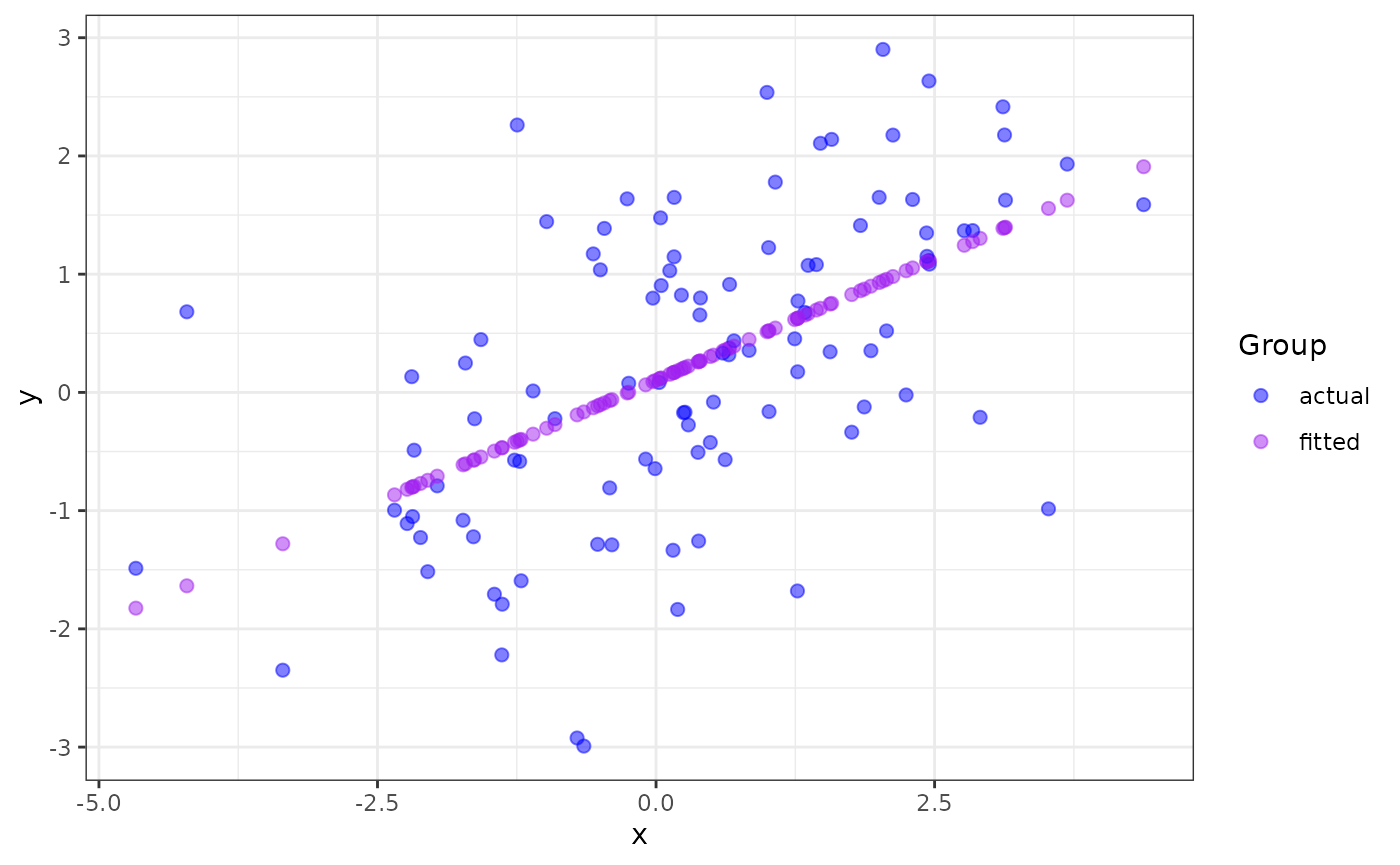
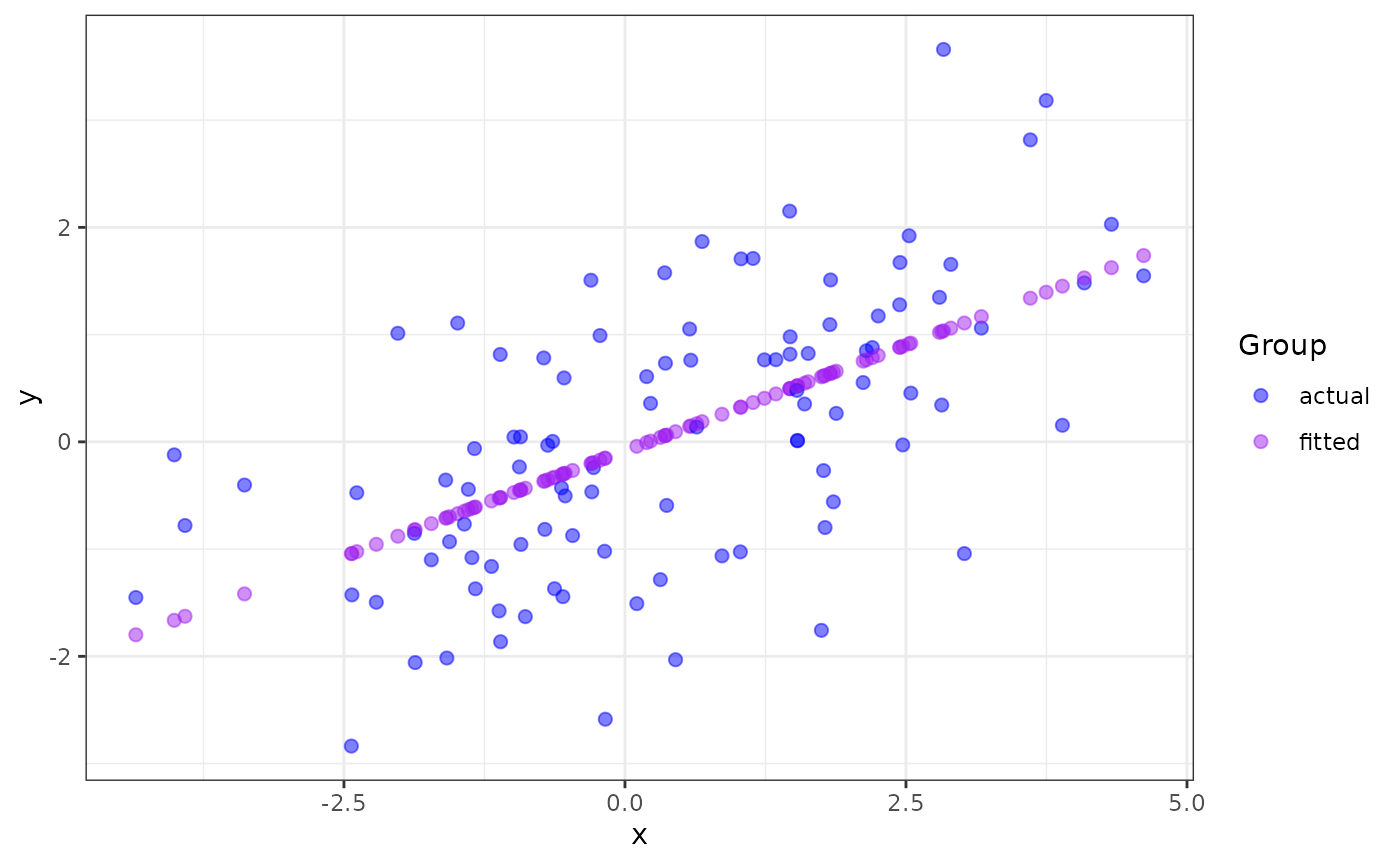
Built site for ggmatplot: 0.1.2@ef95fd4

diff --git a/reference/ggmatplot.html b/reference/ggmatplot.html
@@ -103,10 +103,14 @@ and <code>y</code> are the same.</p></li>
 <li><p>If either <code>x</code> or <code>y</code> is missing, the other is used as <code>y</code> and a vector of
 <code>1:n</code> is used as <code>x</code>.</p></li>
 </ul></dd>
+
+
 <dt>plot_type</dt>
 <dd><p>A string specifying the type of plot. Possible plot types
 are <code>point</code>, <code>line</code>, <code>both</code>(point + line), <code>density</code>, <code>histogram</code>, <code>boxplot</code>,
 <code>dotplot</code>, <code>errorplot</code>, <code>violin</code>, and <code>ecdf</code>. Default plot_type is <code>point</code>.</p></dd>
+
+
 <dt>color, fill</dt>
 <dd><p>Vectors of colors. Defining only one of them will update
 both <code>color</code> and <code>fill</code> aesthetics of the plot by default, unless they are
@@ -115,12 +119,16 @@ matrices <code>x</code> or <code>y</code>, and will correspond to each of those 
 <li><p>If only a single color is given, the same color will be used for all
 columns.</p></li>
 </ul></dd>
+
+
 <dt>shape, linetype</dt>
 <dd><p>A vector of shapes or line types respectively.</p><ul><li><p>The number of shapes/line types should match the higher number of columns
 of matrices <code>x</code> or <code>y</code>, and will correspond to each of those columns.</p></li>
 <li><p>If only a single shape/line type is given, the same shape/line type will
 be used for all columns.</p></li>
 </ul></dd>
+
+
 <dt>xlim, ylim</dt>
 <dd><p>Ranges of x and y axes.</p><ul><li><p>Each of them should be a two element vector specifying the lower and upper
 limits of the scale.</p></li>
@@ -128,27 +136,42 @@ limits of the scale.</p></li>
 the limits is given as <code>NA</code>, the corresponding limit from the range of data
 will be used.</p></li>
 </ul></dd>
+
+
 <dt>log</dt>
 <dd><p>A string defining which axes to transform into a log scale.
 (<code>x</code>, <code>y</code> or <code>xy</code>)</p></dd>
+
+
 <dt>main, xlab, ylab, legend_title</dt>
 <dd><p>Strings to update plot title, x axis
 label, y axis label and legend title respectively.</p></dd>
+
+
 <dt>legend_label</dt>
 <dd><p>A vector of strings, to rename the legend labels.</p></dd>
+
+
 <dt>desc_stat</dt>
 <dd><p>Descriptive statistics to be used for visualizing errors,
 in <code>errorplot</code>. Possible values are <code>mean_se</code>, <code>mean_sd</code>, <code>mean_range</code>,
 <code>median_iqr</code> and <code>median_range</code>. Default desc_stat is <code>mean_se</code>.</p></dd>
+
+
 <dt>asp</dt>
 <dd><p>The y/x aspect ratio.</p></dd>
+
+
 <dt>...</dt>
 <dd><p>Other arguments passed on to the plot. Possible arguments are
 those that can be passed on to the <a href="#plot-types">underlying ggplot layers</a>.</p></dd>
+
 </dl></div>
     <div id="value">
     <h2>Value</h2>
-    <p>A ggplot object. The columns of the input matrices will be plotted
+    
+
+<p>A ggplot object. The columns of the input matrices will be plotted
 against each other using the defined plot type.</p>
     </div>
     <div id="plot-types">
@@ -200,7 +223,7 @@ or <a href="https://ggplot2.tidyverse.org/reference/index.html#section-stats" cl
 </div>
 
 <div class="pkgdown">
-  <p></p><p>Site built with <a href="https://pkgdown.r-lib.org/" class="external-link">pkgdown</a> 2.0.3.</p>
+  <p></p><p>Site built with <a href="https://pkgdown.r-lib.org/" class="external-link">pkgdown</a> 2.0.4.</p>
 </div>
 
       </footer></div>

diff --git a/articles/ggmatplot.html b/articles/ggmatplot.html
@@ -103,7 +103,7 @@
 <span class="va">x</span> <span class="op">&lt;-</span> <span class="fu"><a href="https://rdrr.io/r/base/c.html" class="external-link">c</a></span><span class="op">(</span><span class="fu"><a href="https://rdrr.io/r/stats/Normal.html" class="external-link">rnorm</a></span><span class="op">(</span><span class="fl">100</span>, sd <span class="op">=</span> <span class="fl">2</span><span class="op">)</span><span class="op">)</span>
 
 <span class="fu"><a href="https://rdrr.io/r/utils/head.html" class="external-link">head</a></span><span class="op">(</span><span class="va">x</span><span class="op">)</span>
-<span class="co">#&gt; [1]  0.04623868  2.76618692  2.44945253  0.16181904  0.39333170 -0.09327548</span>
+<span class="co">#&gt; [1] -0.5522462  1.1395342 -0.9390466 -0.3027824  0.3149988 -3.3847305</span>
 
 <span class="co"># matrix z</span>
 <span class="va">y</span> <span class="op">&lt;-</span> <span class="va">x</span> <span class="op">*</span> <span class="fl">0.5</span> <span class="op">+</span> <span class="fu"><a href="https://rdrr.io/r/stats/Normal.html" class="external-link">rnorm</a></span><span class="op">(</span><span class="fl">100</span>, sd <span class="op">=</span> <span class="fl">1</span><span class="op">)</span>
@@ -112,13 +112,13 @@
            fitted <span class="op">=</span> <span class="va">fit.y</span><span class="op">)</span>
 
 <span class="fu"><a href="https://rdrr.io/r/utils/head.html" class="external-link">head</a></span><span class="op">(</span><span class="va">z</span><span class="op">)</span>
-<span class="co">#&gt;       actual     fitted</span>
-<span class="co">#&gt; 1  0.9036630 0.12154503</span>
-<span class="co">#&gt; 2  1.3674494 1.24429799</span>
-<span class="co">#&gt; 3  2.6338174 1.11355489</span>
-<span class="co">#&gt; 4  1.1468939 0.16925483</span>
-<span class="co">#&gt; 5  0.6546773 0.26481971</span>
-<span class="co">#&gt; 6 -0.5642480 0.06395572</span></code></pre></div>
+<span class="co">#&gt;       actual      fitted</span>
+<span class="co">#&gt; 1 -1.4434883 -0.30057303</span>
+<span class="co">#&gt; 2  1.7102642  0.36669156</span>
+<span class="co">#&gt; 3 -0.2337289 -0.45313315</span>
+<span class="co">#&gt; 4  1.5071813 -0.20218065</span>
+<span class="co">#&gt; 5 -1.2848245  0.04148191</span>
+<span class="co">#&gt; 6 -0.4026700 -1.41774912</span></code></pre></div>
 <p><code>ggmatplot</code> plots vector <code>x</code> against each column of matrix <code>z</code> using the default <code>plot_type = "point"</code>. This will be represented on the resulting plot as two groups, identified using different shapes and colors.</p>
 <div class="sourceCode" id="cb2"><pre class="downlit sourceCode r">
 <code class="sourceCode R"><span class="kw"><a href="https://rdrr.io/r/base/library.html" class="external-link">library</a></span><span class="op">(</span><span class="va"><a href="https://github.com/xuan-liang/ggmatplot" class="external-link">ggmatplot</a></span><span class="op">)</span>
@@ -253,7 +253,7 @@
 
 <div class="pkgdown">
   <p></p>
-<p>Site built with <a href="https://pkgdown.r-lib.org/" class="external-link">pkgdown</a> 2.0.3.</p>
+<p>Site built with <a href="https://pkgdown.r-lib.org/" class="external-link">pkgdown</a> 2.0.4.</p>
 </div>
 
       </footer>

diff --git a/authors.html b/authors.html
@@ -86,13 +86,16 @@
     </div>
 
 
-    <p>Xuan Liang, Francis Hui, Emi Tanaka and Dilinie Seimon (2021).
-  ggmatplot: A quick and easy way of plotting the columns of two matrices or data frames against each other using ggplot2.</p>
+    <p>Xuan Liang, Francis Hui, Emi Tanaka and Dilinie Seimon (2022).
+  ggmatplot: A quick and easy way of plotting the columns of two matrices or data frames against each other using ggplot2. Zenodo. https://doi.org/10.5281/zenodo.6610553</p>
     <pre>@Manual{,
   title = {{ggmatplot}: A quick and easy way of plotting the columns of two matrices or data frames against each other using ggplot2.},
   author = {Xuan Liang and Francis Hui and Emi Tanaka and Dilinie Seimon},
-  year = {2021},
-  url = {https://github.com/xuan-liang/ggmatplot},
+  year = {2022},
+  publisher = {Zenodo},
+  version = {v0.1.2},
+  doi = {10.5281/zenodo.6610553},
+  url = {https://doi.org/10.5281/zenodo.6610553},
 }</pre>
 
   </div>
@@ -106,7 +109,7 @@
 </div>
 
 <div class="pkgdown">
-  <p></p><p>Site built with <a href="https://pkgdown.r-lib.org/" class="external-link">pkgdown</a> 2.0.3.</p>
+  <p></p><p>Site built with <a href="https://pkgdown.r-lib.org/" class="external-link">pkgdown</a> 2.0.4.</p>
 </div>
 
       </footer></div>

diff --git a/404.html b/404.html
@@ -103,7 +103,7 @@ Content not found. Please use links in the navbar.
 
 <div class="pkgdown">
   <p></p>
-<p>Site built with <a href="https://pkgdown.r-lib.org/" class="external-link">pkgdown</a> 2.0.3.</p>
+<p>Site built with <a href="https://pkgdown.r-lib.org/" class="external-link">pkgdown</a> 2.0.4.</p>
 </div>
 
       </footer>

diff --git a/LICENSE.html b/LICENSE.html
@@ -270,7 +270,7 @@
 </div>
 
 <div class="pkgdown">
-  <p></p><p>Site built with <a href="https://pkgdown.r-lib.org/" class="external-link">pkgdown</a> 2.0.3.</p>
+  <p></p><p>Site built with <a href="https://pkgdown.r-lib.org/" class="external-link">pkgdown</a> 2.0.4.</p>
 </div>
 
       </footer></div>

diff --git a/articles/index.html b/articles/index.html
@@ -75,7 +75,7 @@
 </div>
 
 <div class="pkgdown">
-  <p></p><p>Site built with <a href="https://pkgdown.r-lib.org/" class="external-link">pkgdown</a> 2.0.3.</p>
+  <p></p><p>Site built with <a href="https://pkgdown.r-lib.org/" class="external-link">pkgdown</a> 2.0.4.</p>
 </div>
 
       </footer></div>

diff --git a/news/index.html b/news/index.html
@@ -84,7 +84,7 @@
 </div>
 
 <div class="pkgdown">
-  <p></p><p>Site built with <a href="https://pkgdown.r-lib.org/" class="external-link">pkgdown</a> 2.0.3.</p>
+  <p></p><p>Site built with <a href="https://pkgdown.r-lib.org/" class="external-link">pkgdown</a> 2.0.4.</p>
 </div>
 
       </footer></div>

diff --git a/reference/index.html b/reference/index.html
@@ -80,7 +80,7 @@
 </div>
 
 <div class="pkgdown">
-  <p></p><p>Site built with <a href="https://pkgdown.r-lib.org/" class="external-link">pkgdown</a> 2.0.3.</p>
+  <p></p><p>Site built with <a href="https://pkgdown.r-lib.org/" class="external-link">pkgdown</a> 2.0.4.</p>
 </div>
 
       </footer></div>

diff --git a/index.html b/index.html
@@ -348,7 +348,7 @@
 
 <div class="pkgdown">
   <p></p>
-<p>Site built with <a href="https://pkgdown.r-lib.org/" class="external-link">pkgdown</a> 2.0.3.</p>
+<p>Site built with <a href="https://pkgdown.r-lib.org/" class="external-link">pkgdown</a> 2.0.4.</p>
 </div>
 
       </footer>
